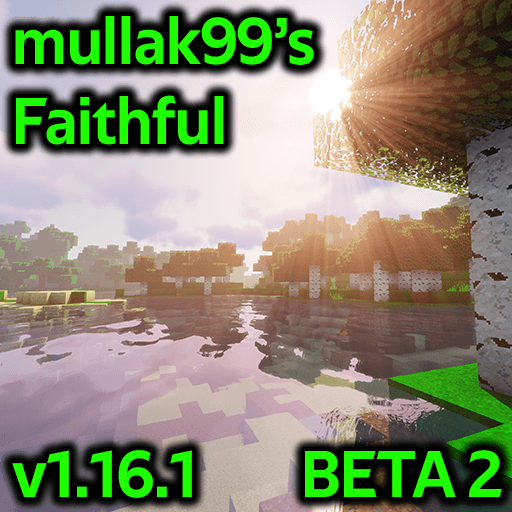
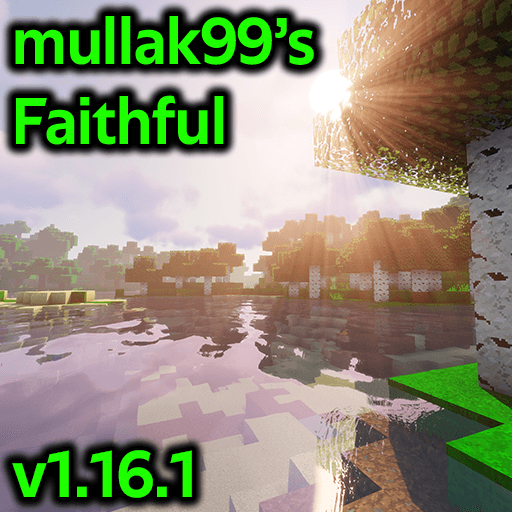
v1.16.1
- Tweaked Crimson and Warped Nylium textures
- Disabled random rotation on Stone

Changed region(s): [[0.5625, 0.8438, 1.0, 1.0]]

diff --git a/README.md b/README.md
@@ -1,6 +1,6 @@
 # mullak99's Faithful 32x
 
-**Current Branch Version:** _v1.16.1-BETA2_  
+**Current Branch Version:** _v1.16.1_  
 
 ## Branch Breakdown
 
